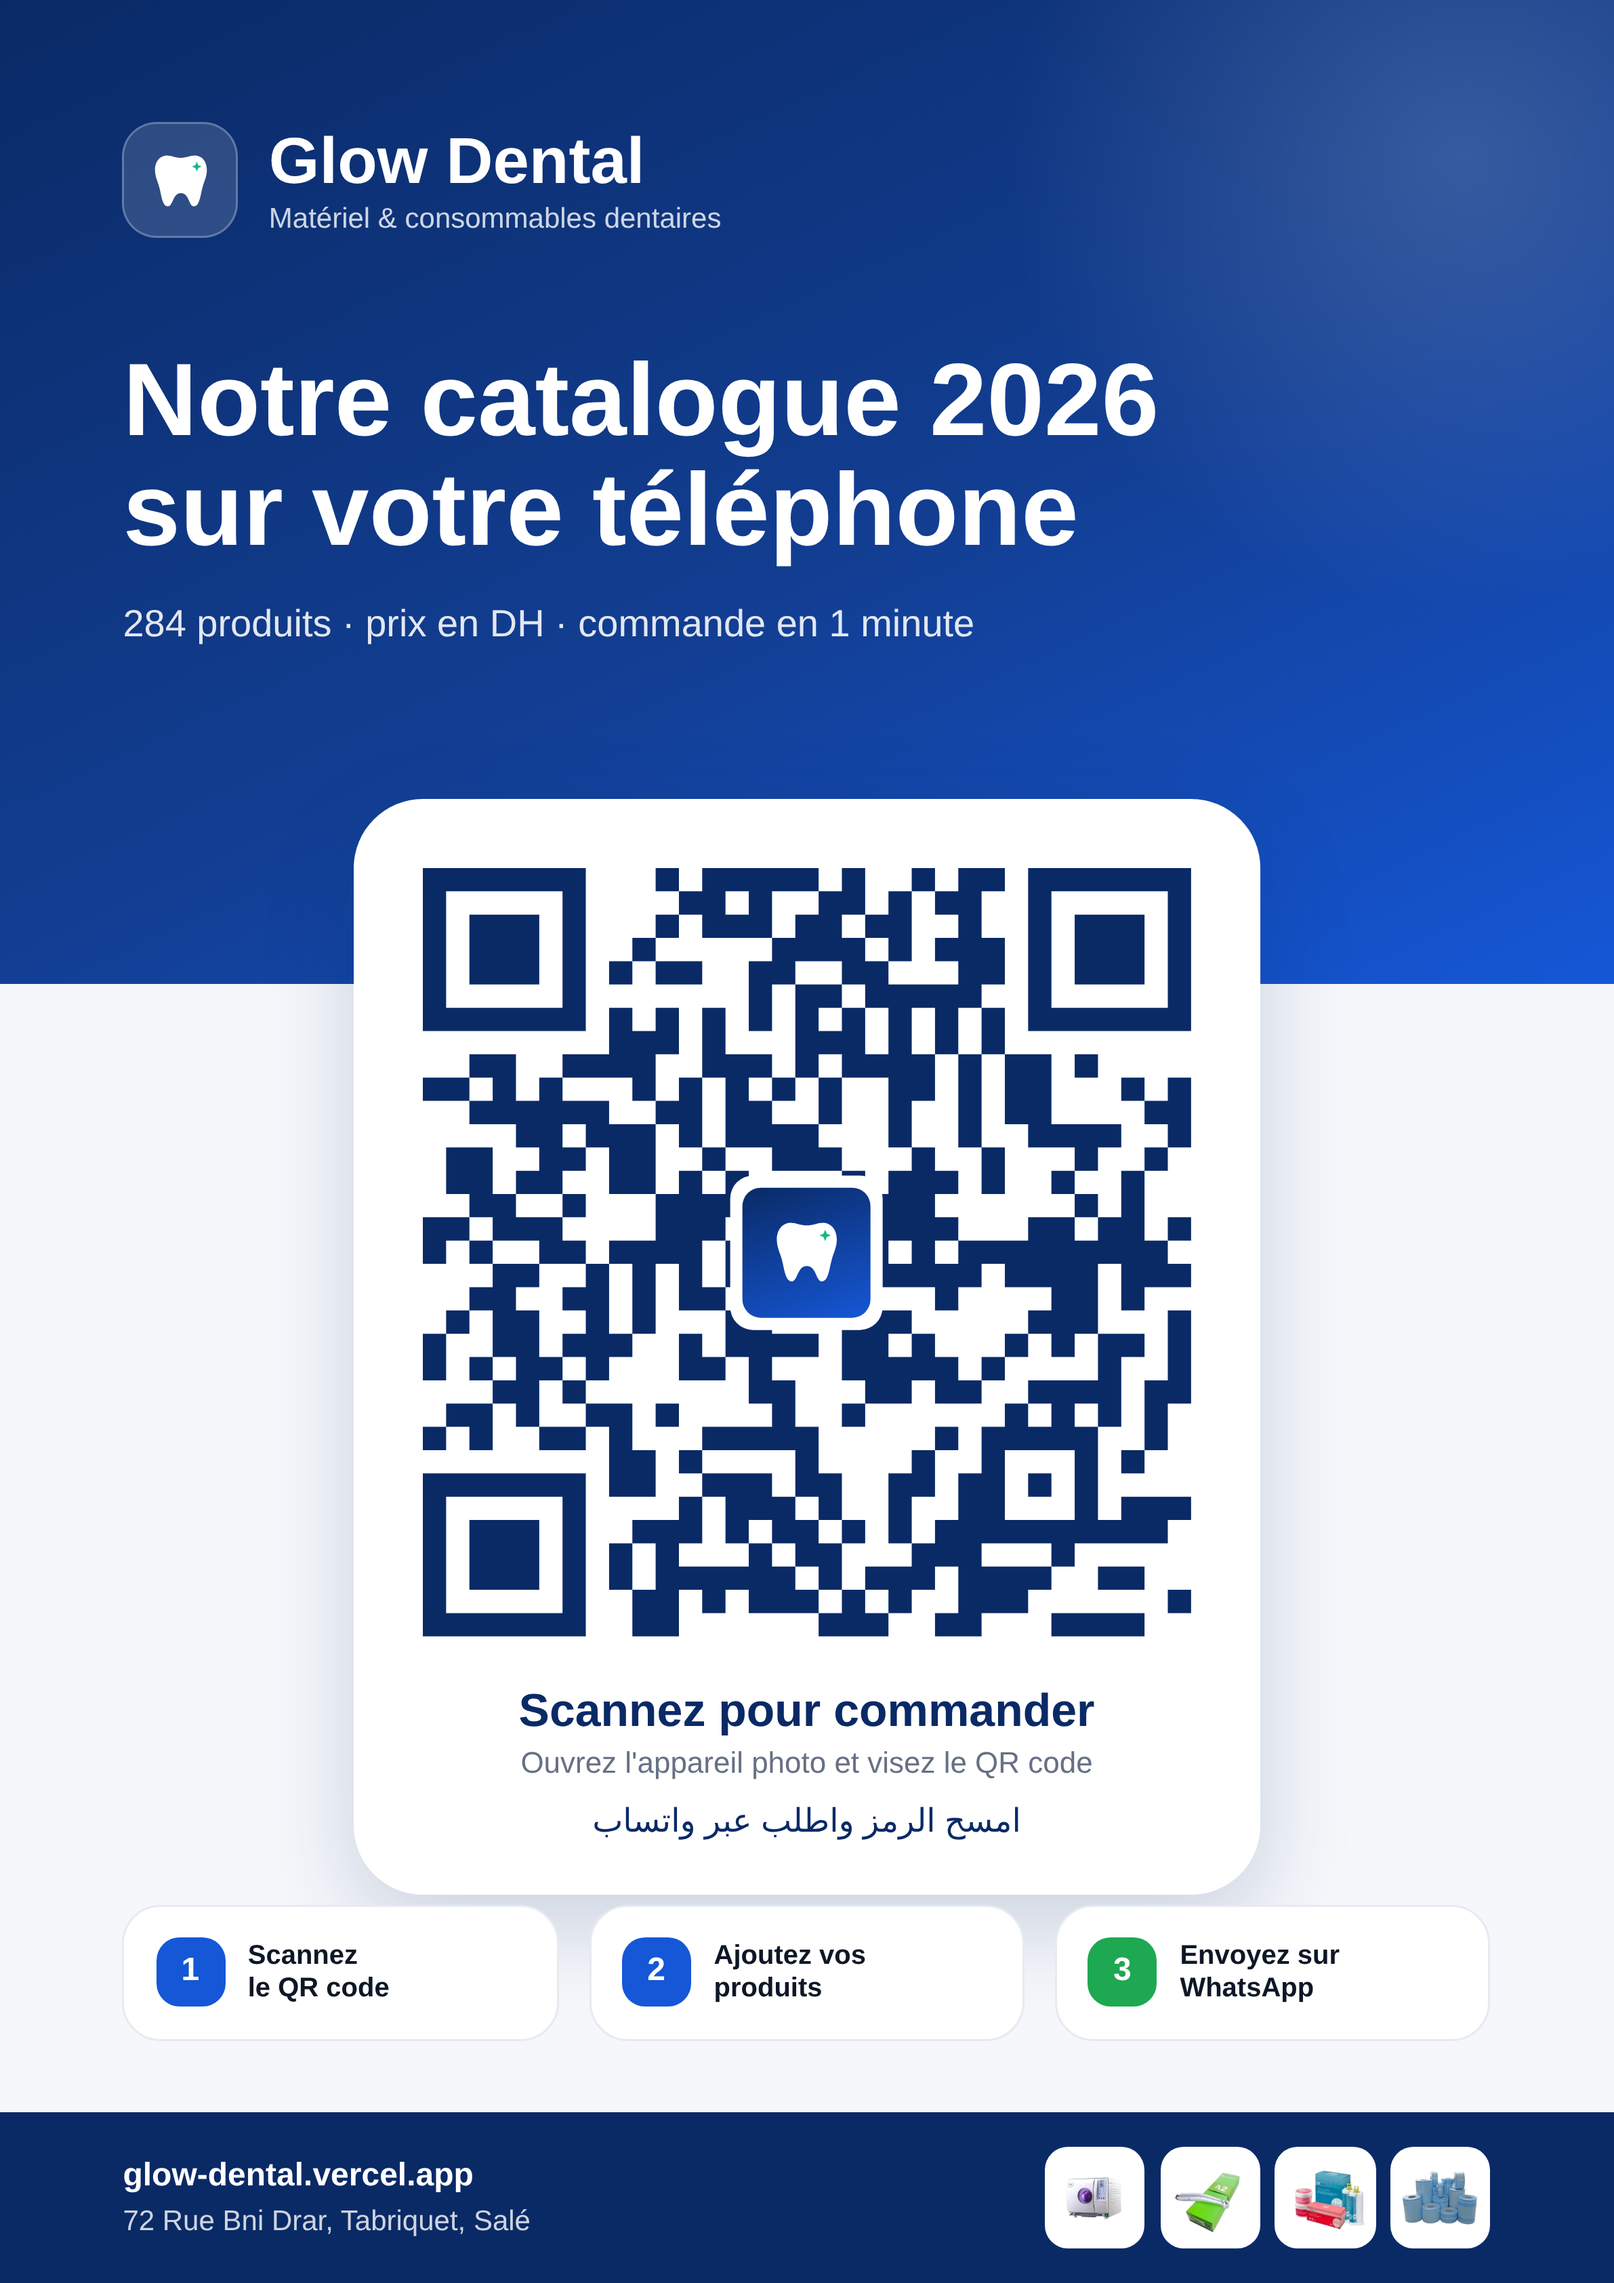
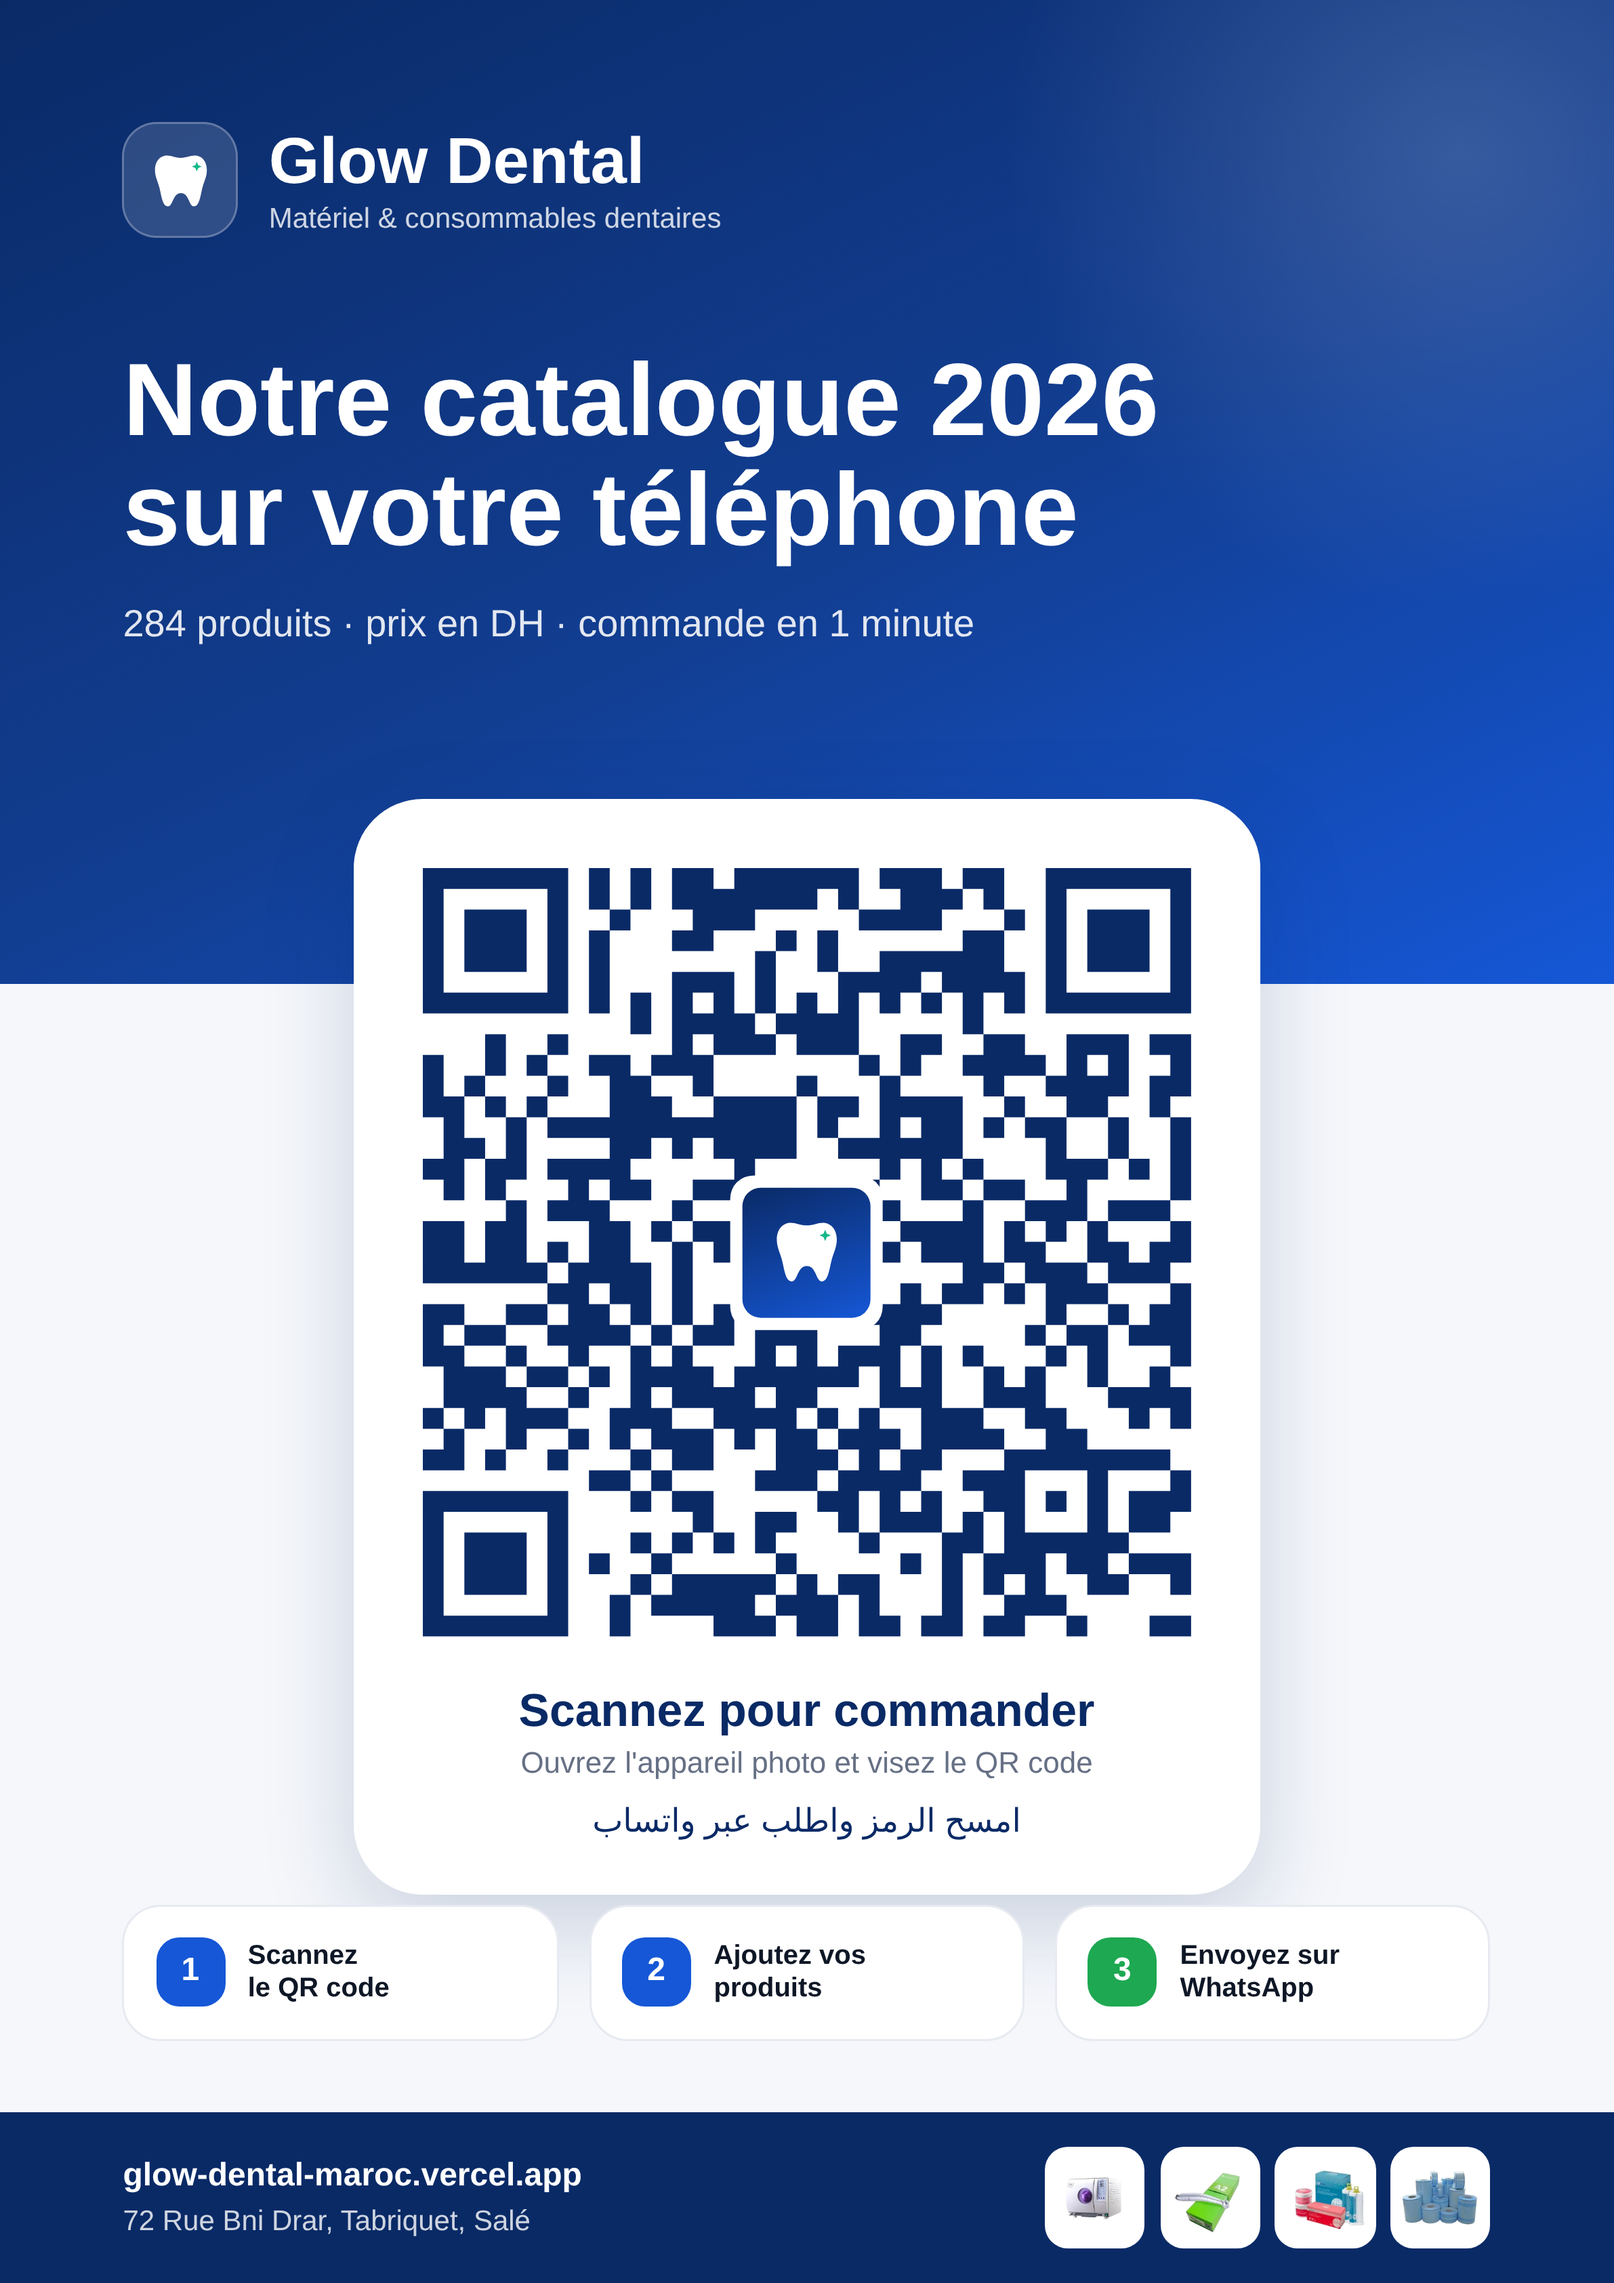
Lien glow-dental-maroc.vercel.app + QR mis a jour
Claude-Session: https://claude.ai/code/session_01EXeLAP9KZct5yrxAi5sXFy

Changed region(s): [[0.2485, 0.374, 0.7456, 0.7168], [0.1864, 0.935, 0.3728, 0.9662]]

diff --git a/index.html b/index.html
@@ -9,8 +9,8 @@
 <meta property="og:type" content="website">
 <meta property="og:title" content="Glow Dental — Catalogue 2026">
 <meta property="og:description" content="284 produits dentaires avec prix. Commandez en 1 minute via WhatsApp.">
-<meta property="og:image" content="https://glow-dental.vercel.app/og.jpg">
-<meta property="og:url" content="https://glow-dental.vercel.app/">
+<meta property="og:image" content="https://glow-dental-maroc.vercel.app/og.jpg">
+<meta property="og:url" content="https://glow-dental-maroc.vercel.app/">
 <meta name="twitter:card" content="summary_large_image">
 <link rel="manifest" href="manifest.webmanifest">
 <link rel="icon" type="image/png" href="icons/icon-192.png">

diff --git a/app.js b/app.js
@@ -4,7 +4,7 @@ const CONFIG = {
   whatsapp: "",   // numéro li katwsel 3lih les commandes, ex: "212612345678" (bla + w bla espaces)
   apiUrl: "",     // lien Apps Script (…/exec). Khawi = l-site khddam b data/products.json w bla Google Sheet
   address: "72 Rue Bni Drar, Tabriquet, Salé",
-  site: "https://glow-dental.vercel.app"
+  site: "https://glow-dental-maroc.vercel.app"
 };
 /* ================================= */
 
